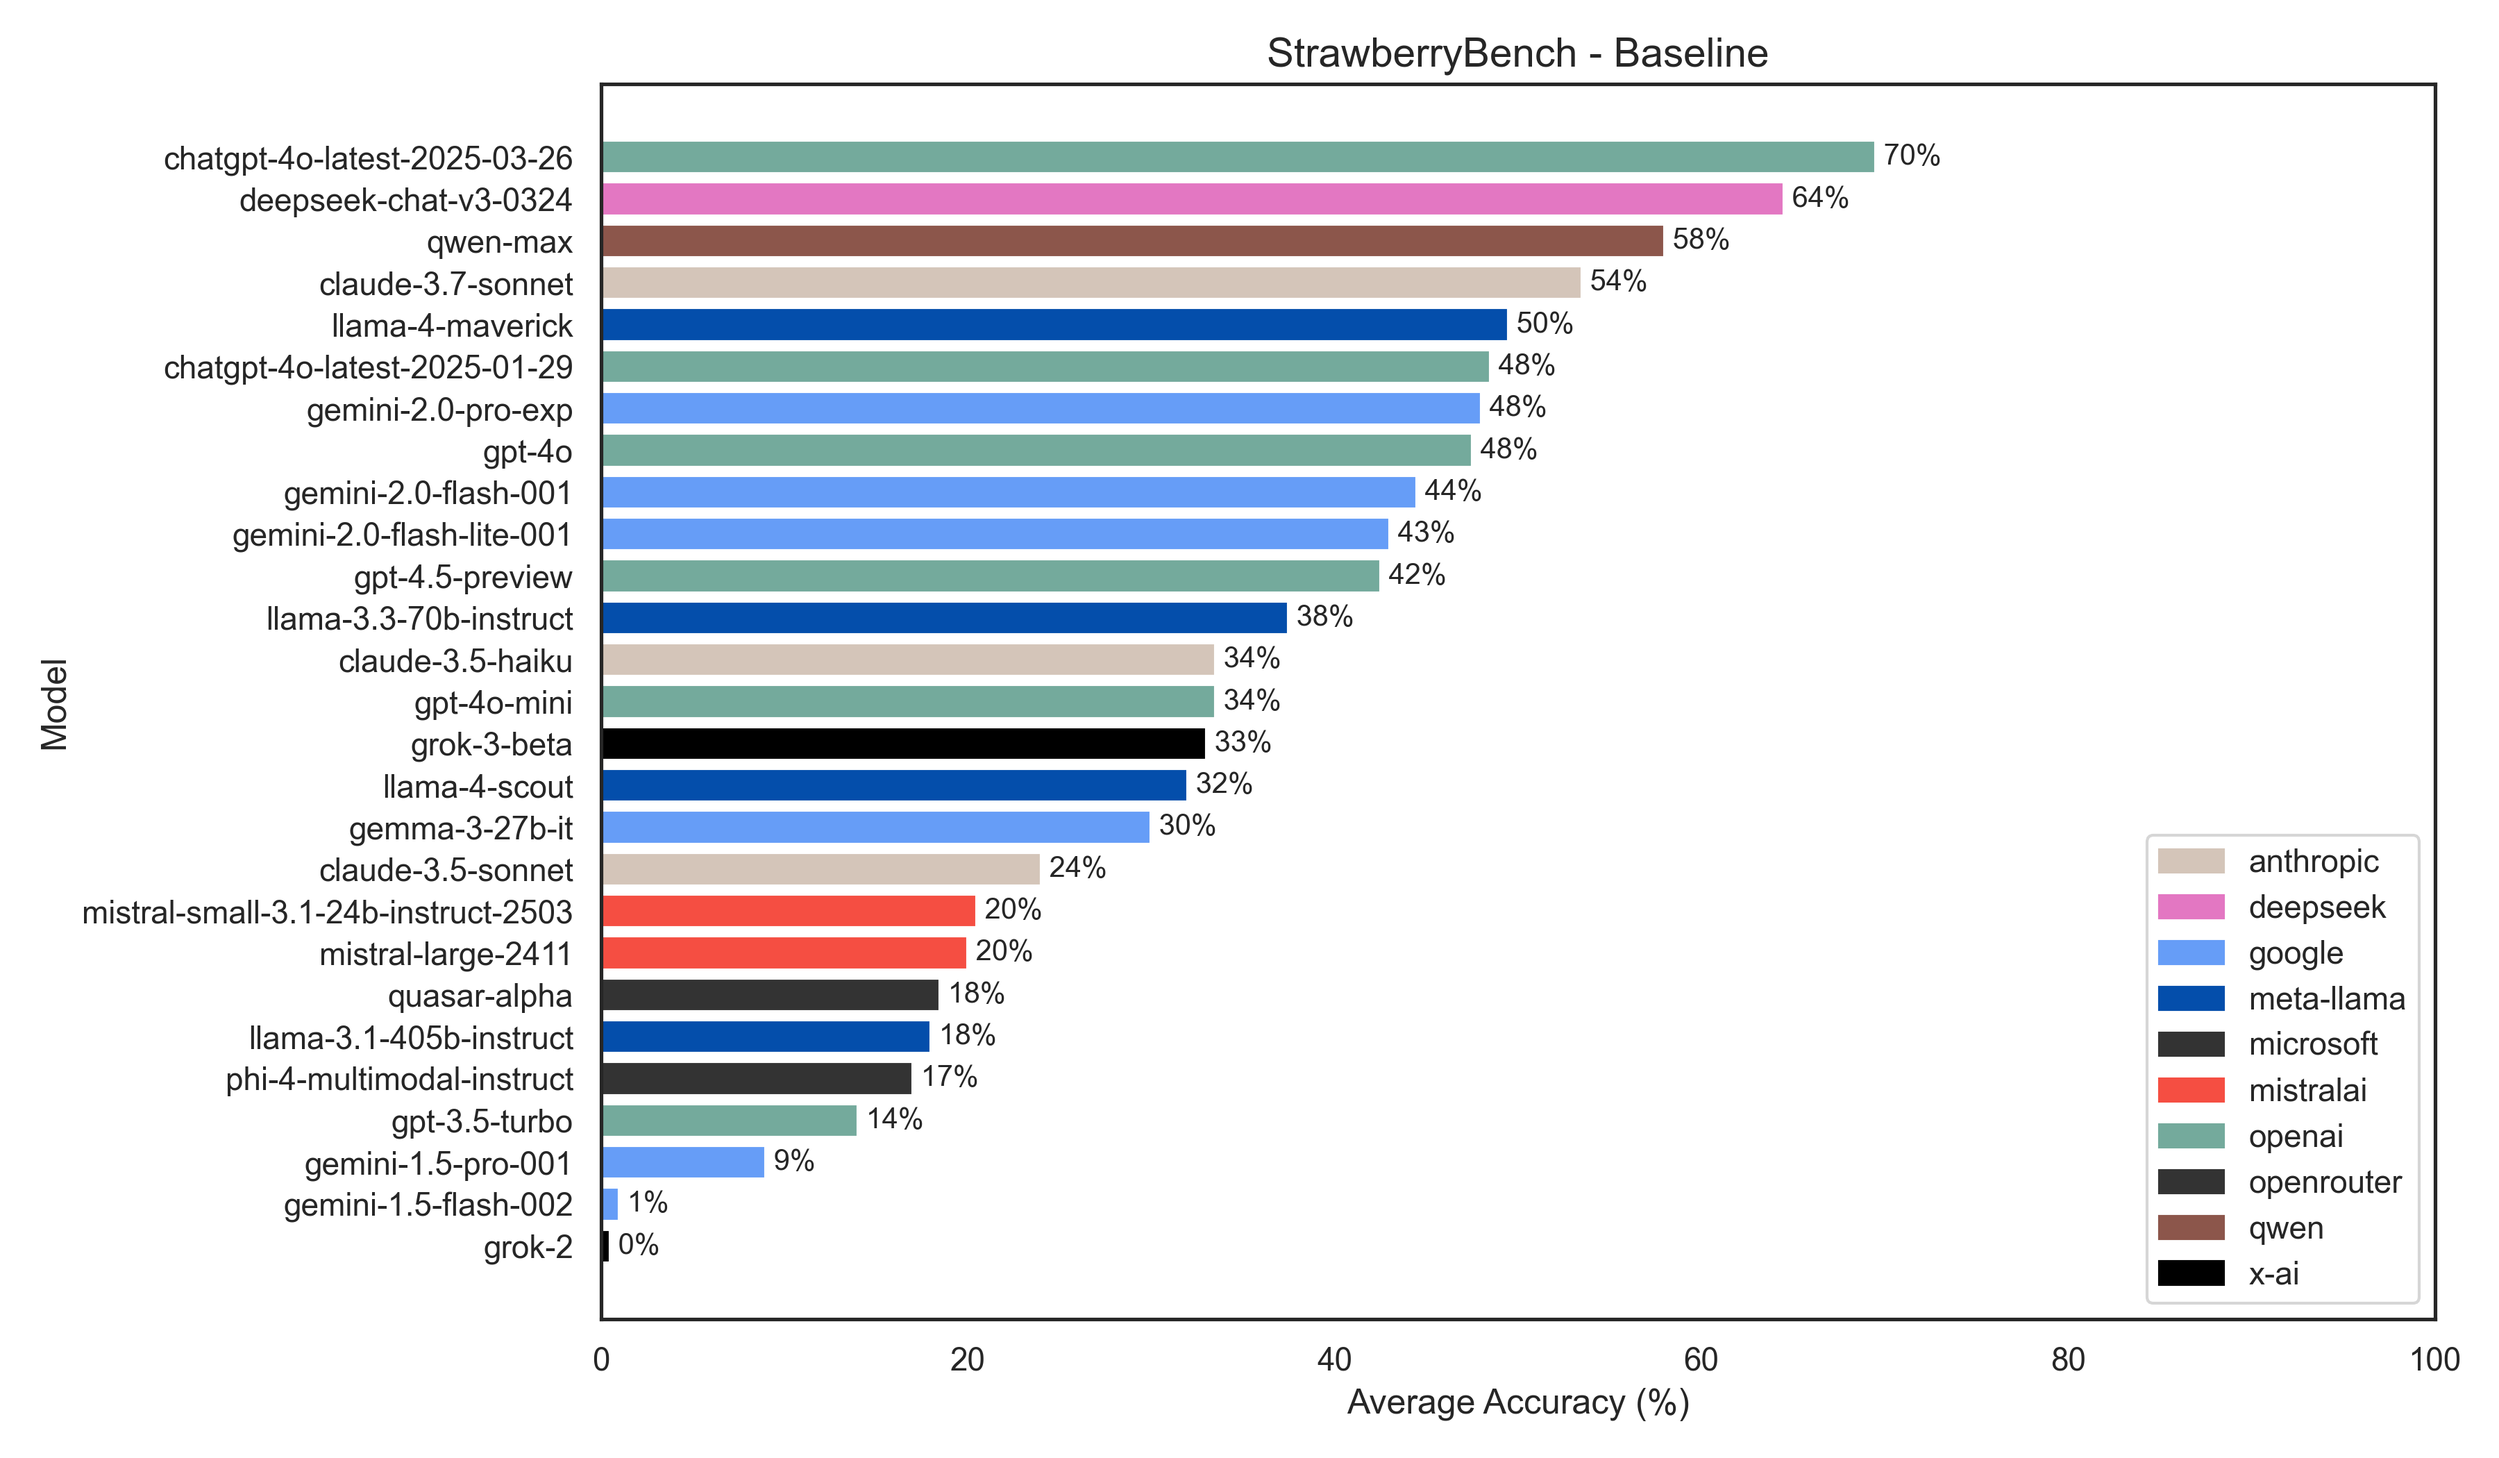
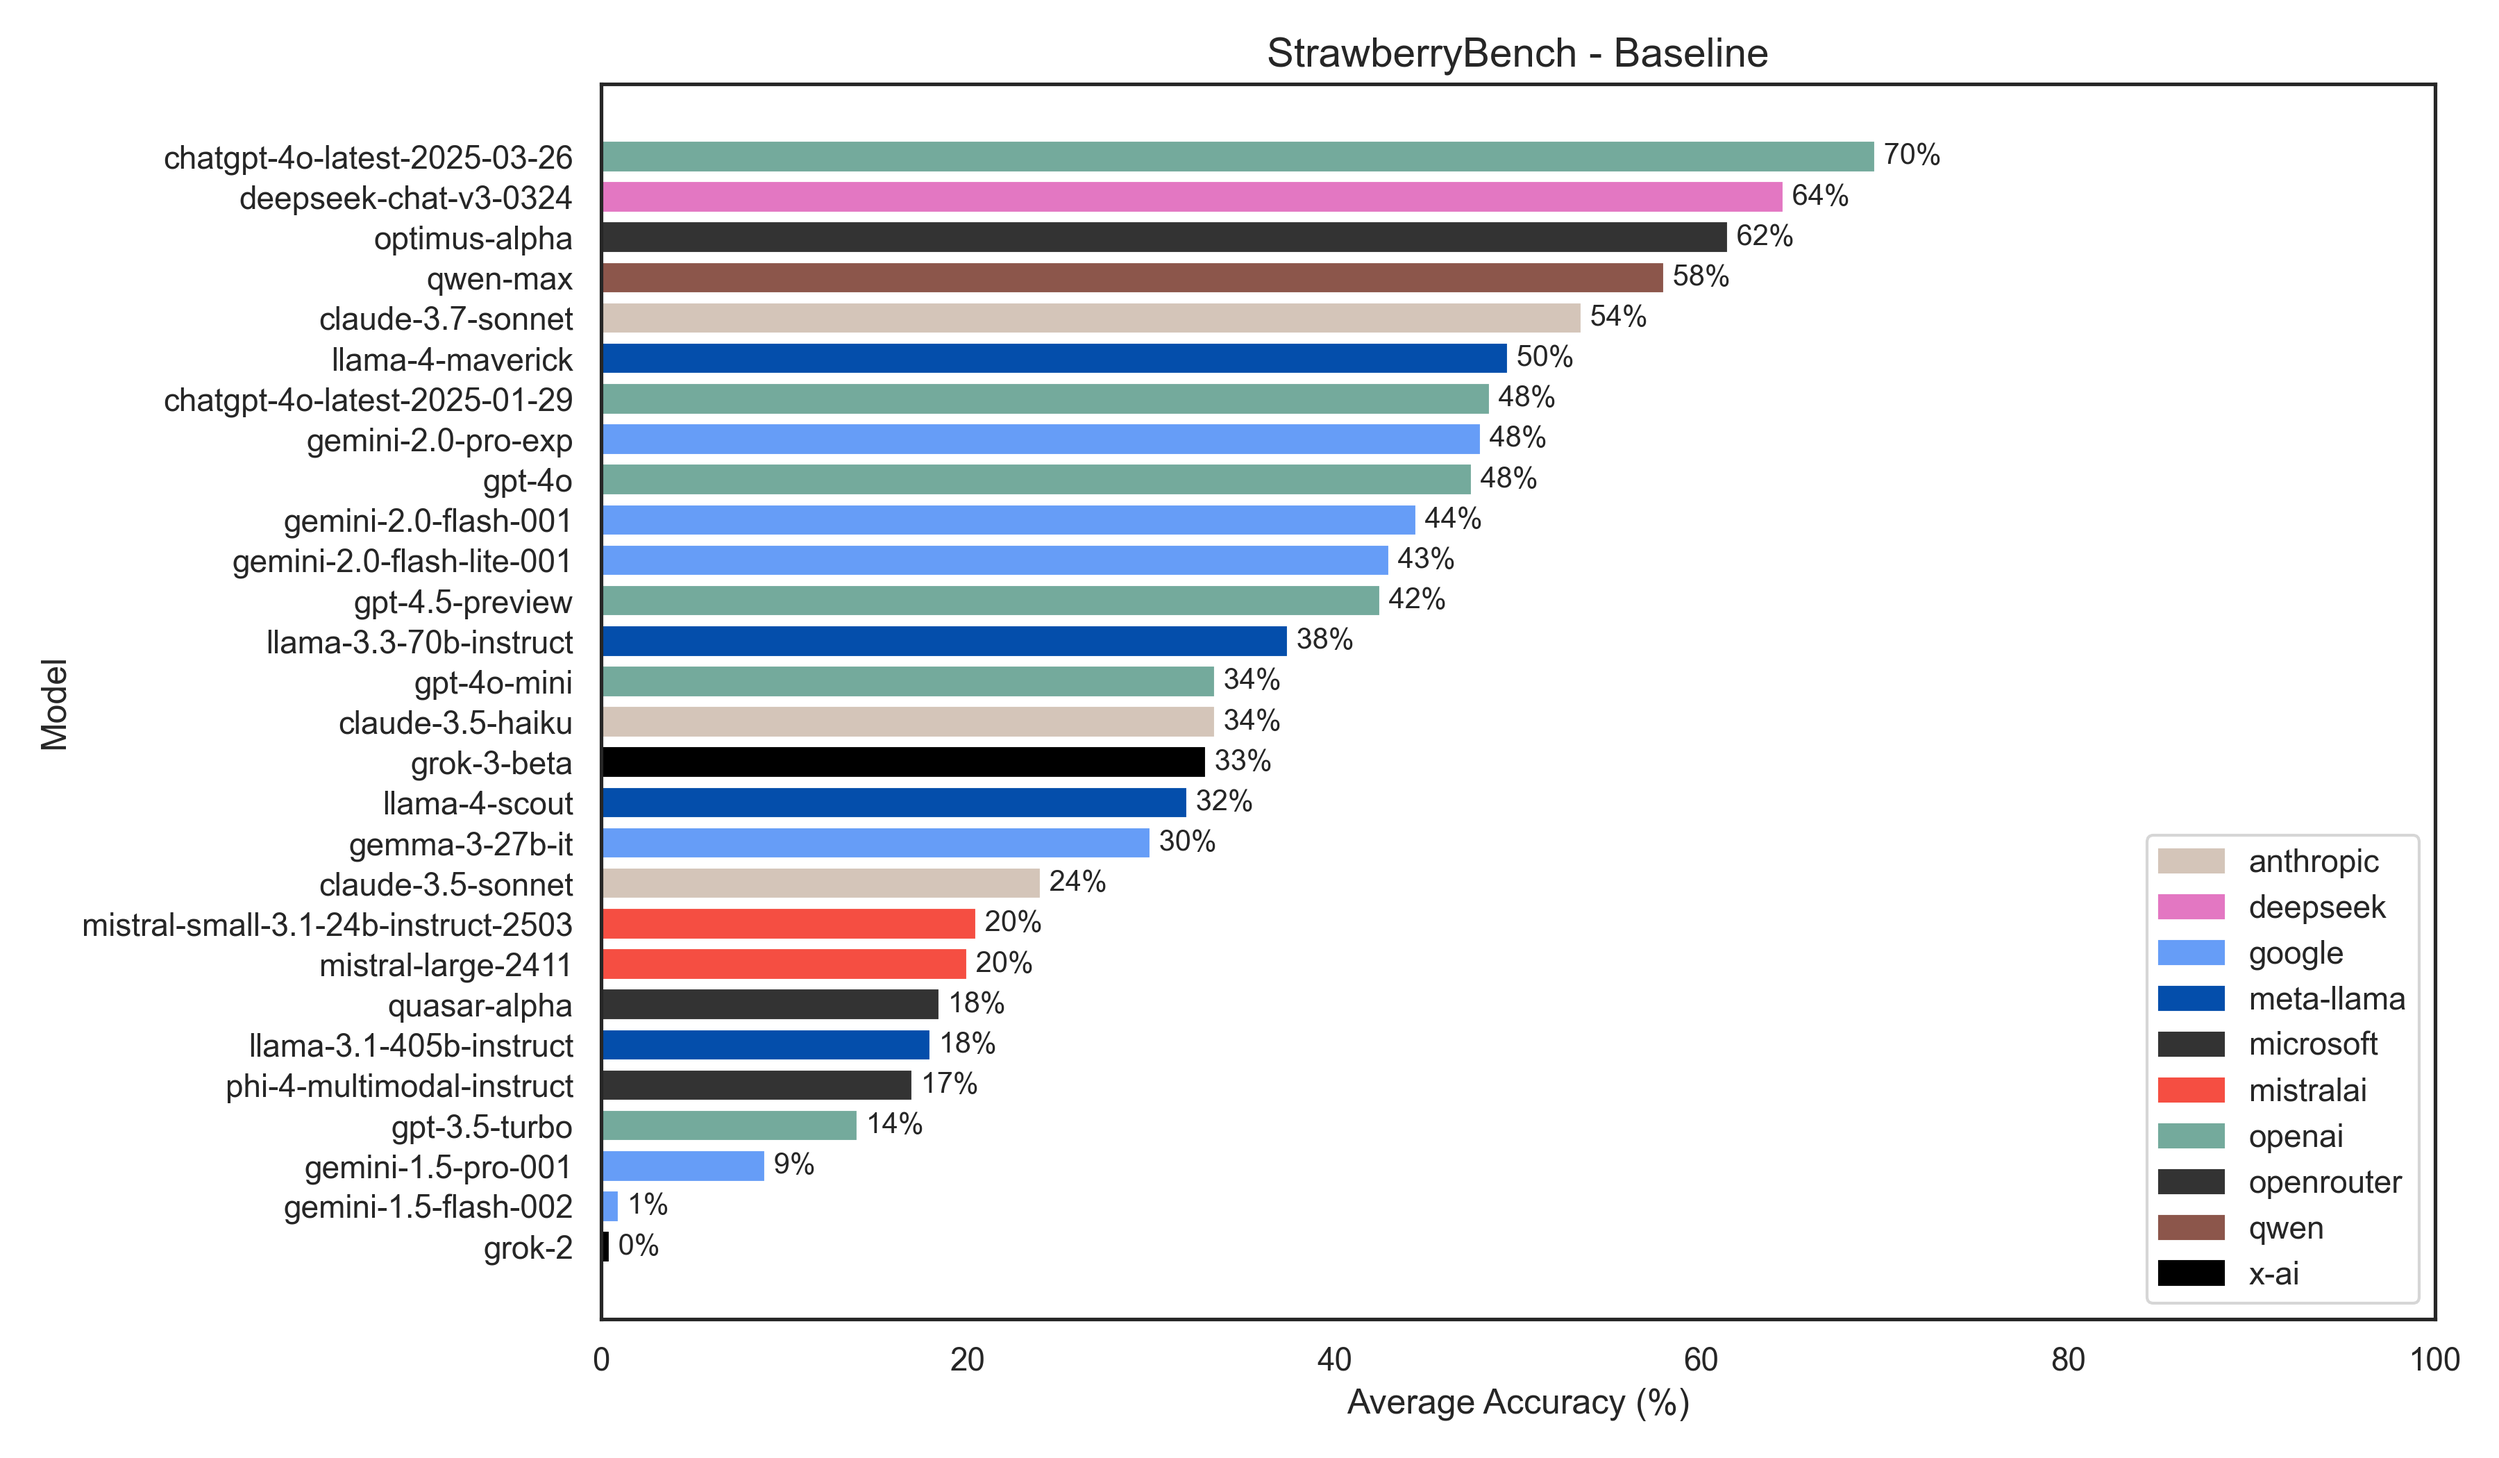
Add openrouter/optimus-alpha

Changed region(s): [[0.0311, 0.1238, 0.7467, 0.8357]]

diff --git a/src/config.py b/src/config.py
@@ -24,7 +24,8 @@ MODELS = [
     # { "name": "openrouter/quasar-alpha", "client": "openrouter", "type": "nocot" },
     # { "name": "qwen/qwen-max", "client": "openrouter", "type": "nocot", "settings": { "rate_limit": 30 } },
     # { "name": "x-ai/grok-2-1212", "client": "openrouter", "type": "nocot" },
-    # {"name": "x-ai/grok-3-beta", "client": "openrouter", "type": "nocot"},
+    # { "name": "x-ai/grok-3-beta", "client": "openrouter", "type": "nocot" },
+    # { "name": "openrouter/optimus-alpha", "client": "openrouter", "type": "nocot" },
 
     # { "name": "anthropic/claude-3.5-haiku", "client": "openrouter", "type": "cot" },
     # { "name": "anthropic/claude-3.5-sonnet", "client": "openrouter", "type": "cot" },
@@ -51,7 +52,8 @@ MODELS = [
     # { "name": "openrouter/quasar-alpha", "client": "openrouter", "type": "cot" },
     # { "name": "qwen/qwen-max", "client": "openrouter", "type": "cot", "settings": { "rate_limit": 30 } },
     # { "name": "x-ai/grok-2-1212", "client": "openrouter", "type": "cot" },
-    # {"name": "x-ai/grok-3-beta", "client": "openrouter", "type": "cot"},
+    # { "name": "x-ai/grok-3-beta", "client": "openrouter", "type": "cot" },
+    # { "name": "openrouter/optimus-alpha", "client": "openrouter", "type": "cot" },
 
     # { "name": "anthropic/claude-3-7-sonnet-20250219", "client": "anthropic", "type": "reasoning", "settings": {"rate_limit": 4} },
     # { "name": "deepseek/deepseek-r1", "client": "openrouter", "type": "reasoning" },
@@ -63,7 +65,7 @@ MODELS = [
     # { "name": "openai/o3-mini", "client": "openai", "type": "reasoning" },
     # { "name": "openai/o3-mini-high", "client": "openai", "type": "reasoning" },
     # { "name": "qwen/qwq-32b", "client": "openrouter", "type": "reasoning", "settings": {"rate_limit": 30} },
-    # {"name": "x-ai/grok-3-mini-beta", "client": "openrouter", "type": "reasoning"},
+    # { "name": "x-ai/grok-3-mini-beta", "client": "openrouter", "type": "reasoning" },
 ]
 
 # The additional characters to insert in the word
